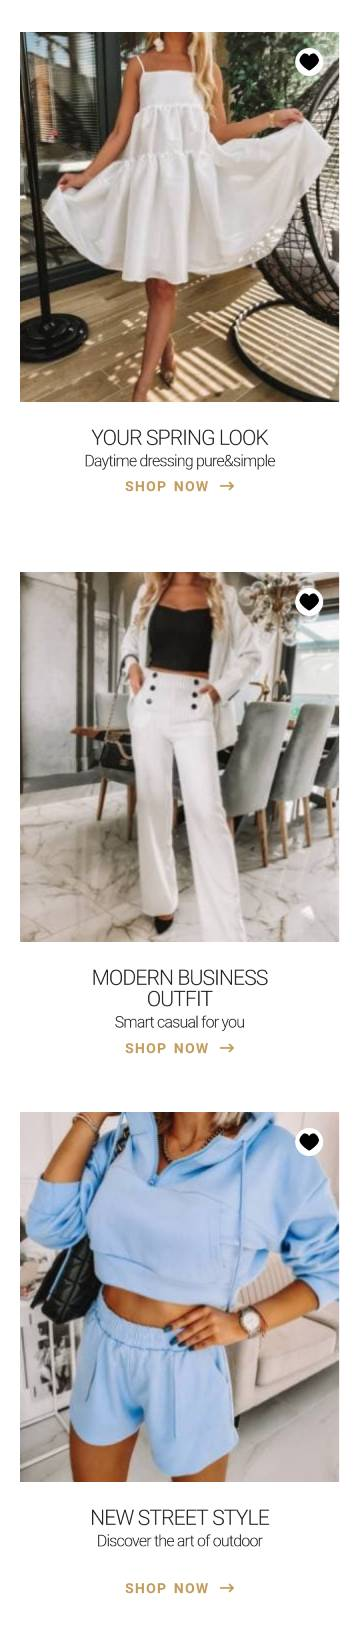
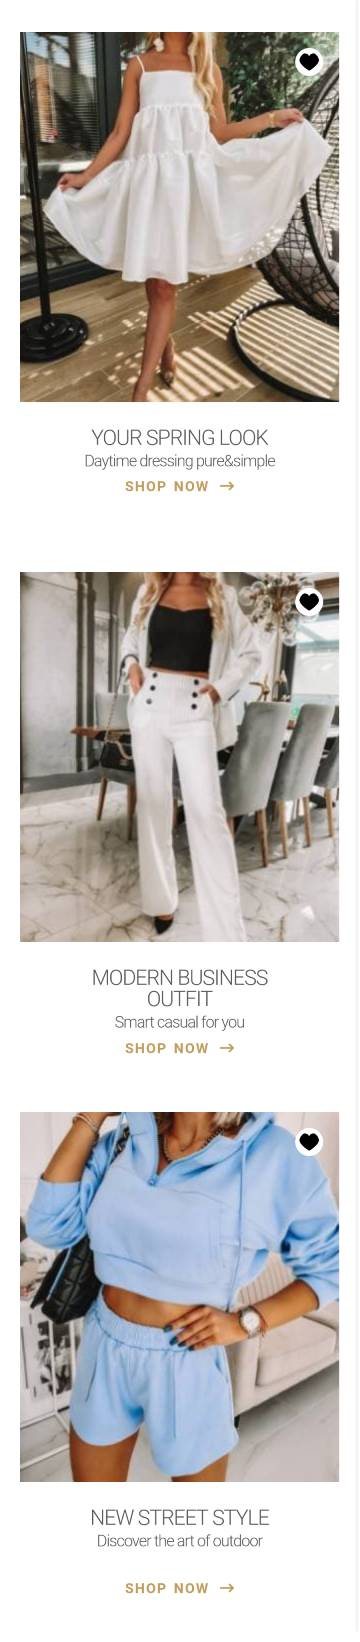
link to live site corrected photos with updated font

diff --git a/README.md b/README.md
@@ -2,7 +2,7 @@ Recruitment task
 
 # Links:
 
-    #Live Site URL: https://joannalapa.github.io/Products-listing/
+- Live Site URL: [https://joannalapa.github.io/Products-listing/](https://joannalapa.github.io/Products-listing/)
 
 This is a solution for recruitment task based on provided instructions and mockup.
 
